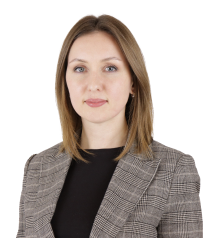
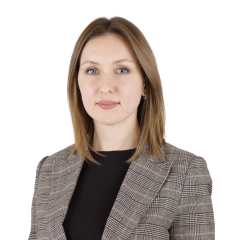
career:mobile version with plagin swiper-slider complited

diff --git a/css/style.css b/css/style.css
@@ -9,7 +9,7 @@
     --_extreme-elements-width: 20%;
     --_logo-link-width: 127px;
     position: fixed;
-    z-index: 1;
+    z-index: 10;
     display: block flex;
     justify-content: space-between;
     align-items: center;
@@ -341,6 +341,186 @@
     }
   }
 
+  .career {
+    --_slide-gap: var(--size-2);
+    --_slide-img-size: calc(100vi / 3 * 2);
+    --swiper-navigation-top-offset: calc(var(--_slide-img-size) / 2);
+    --swiper-navigation-color: var(--color-1);
+    background-color: var(--color-2);
+
+    &>p {
+      margin-block-end: var(--size-5);
+      font-weight: var(--font-weight-2);
+      font-size: 14px;
+      line-height: 143%;
+
+      & span {
+        display: block flow;
+        padding-block-start: var(--size-3);
+      }
+    }
+
+    & .swiper-slide div {
+      display: block flex;
+      flex-direction: column;
+      gap: var(--size-2);
+    }
+
+    & :where(picture, h3) {
+      align-self: center;
+    }
+
+    & h3 {
+      font-size: 16px;
+      line-height: 125%;
+      text-align: center;
+      color: var(--color-1);
+
+      & span {
+        display: block flow;
+        font-weight: var(--font-weight-1);
+        font-size: 14px;
+      }
+    }
+
+    & .swiper-slide li {
+      position: relative;
+      padding-inline-start: var(--size-4);
+      font-size: 14px;
+    }
+
+    & .swiper-slide li:not(:last-child) {
+      margin-block-end: var(--size-3);
+    }
+
+    & .swiper-slide li::before {
+      content: "";
+      position: absolute;
+      inset-inline-start: 15px;
+      inset-block-start: 6px;
+      border-radius: 50%;
+      inline-size: 5px;
+      block-size: 5px;
+      background-color: var(--color-1);
+    }
+
+    & .swiper-slide picture {
+      position: relative;
+    }
+
+    & .swiper-slide picture::before,
+    & .swiper-slide picture::after {
+      content: "";
+      position: absolute;
+      inset-block-end: 0;
+      inline-size: 100%;
+      background-position: center;
+      background-repeat: no-repeat;
+    }
+
+    & .swiper-slide picture::before {
+      block-size: 100%;
+      background-image: url('../img/career-glare.svg');
+    }
+
+    & .swiper-slide picture::after {
+      block-size: 12px;
+      background-image: url('../img/career-rect.svg');
+    }
+
+    & .swiper-slide img {
+      position: relative;
+      z-index: 1;
+      inline-size: 100%;
+      object-fit: cover;
+    }
+
+    & .swiper-button-next::after,
+    & .swiper-button-prev::after {
+      --swiper-navigation-size: 30px;
+      font-weight: var(--font-weight-2);
+    }
+
+    & .swiper-button-prev {
+      --swiper-navigation-sides-offset: -5px;
+    }
+
+    & .swiper-button-next {
+      --swiper-navigation-sides-offset: -2px;
+    }
+  }
+
+  .team {
+    --_team-indent: var(--size-3);
+    isolation: isolate;
+    position: relative;
+    display: block flex;
+    flex-direction: column;
+    justify-content: space-between;
+    padding-block: var(--size-7) var(--size-5);
+    min-block-size: 567px;
+    background-color: var(--color-3);
+
+    &::before,
+    &::after {
+      content: "";
+      position: absolute;
+      block-size: 100%;
+      inline-size: 100%;
+      background-position: center;
+      background-repeat: no-repeat;
+    }
+
+    &::before {
+      inset-block-start: 0;
+      inset-inline: 0;
+      margin-inline: auto;
+      background-image: url('../img/team-glare.svg');
+    }
+
+    &::after {
+      z-index: 1;
+      inset-inline-end: 0;
+      inset-block: 0;
+      margin-block: auto;
+      background-image: url('../img/team-img.svg');
+    }
+
+    & :where(.bold-descr, .team-window) {
+      position: relative;
+      z-index: 10;
+    }
+
+    & .bold-descr {
+      text-align: start;
+      color: var(--color-1);
+
+      & span {
+        display: block flow;
+        padding-block-start: var(--_team-indent);
+      }
+    }
+
+    & .team-window {
+      display: block flex;
+      flex-direction: column;
+      gap: var(--_team-indent);
+      border: 3px solid #36853b;
+      border-radius: 20px;
+      align-self: center;
+      padding: var(--_team-indent);
+      inline-size: clamp(313px, 40vi, 570px);
+      box-shadow: 0 4px 4px 0 rgba(0, 0, 0, 0.25), 0 0 10px 0 rgba(79, 183, 86, 0.7);
+      background: rgba(0, 0, 0, 0.8);
+
+      & p {
+        font-weight: var(--font-weight-2);
+        font-size: 18px;
+        line-height: 122%;
+      }
+    }
+  }
+
   footer {
     --_inner-indent: var(--size-6);
     --_map-height: 225px;
@@ -476,79 +656,5 @@
         font-size: 12px;
       }
     }
-  }
-
-  .team {
-    --_team-indent: var(--size-3);
-    isolation: isolate;
-    position: relative;
-    display: block flex;
-    flex-direction: column;
-    justify-content: space-between;
-    padding-block: var(--size-7) var(--size-5);
-    min-block-size: 567px;
-    background-color: var(--color-3);
-
-    &::before {
-      content: "";
-      position: absolute;
-      inset-block-start: 0;
-      inset-inline: 0;
-      margin-inline: auto;
-      block-size: 100%;
-      inline-size: 100%;
-      background-image: url('../img/glare.svg');
-      background-position: center;
-      background-size: 100%;
-      background-repeat: no-repeat;
-    }
-
-    &::after {
-      content: "";
-      position: absolute;
-      inset-inline-end: 0;
-      inset-block: 0;
-      margin-block: auto;
-      z-index: 1;
-      block-size: 100%;
-      inline-size: 100%;
-      background-image: url('../img/team-img.svg');
-      background-position: center;
-      background-repeat: no-repeat;
-    }
-
-    & :where(.bold-descr, .team-window) {
-      position: relative;
-      z-index: 10;
-    }
-
-    & .bold-descr {
-      text-align: start;
-
-      & span {
-        display: block flow;
-        padding-block-start: var(--_team-indent);
-      }
-    }
-
-    & .team-window {
-      display: block flex;
-      flex-direction: column;
-      gap: var(--_team-indent);
-      border: 3px solid #36853b;
-      border-radius: 20px;
-      align-self: center;
-      padding: var(--_team-indent);
-      inline-size: clamp(313px, 40vi, 570px);
-      box-shadow: 0 4px 4px 0 rgba(0, 0, 0, 0.25), 0 0 10px 0 rgba(79, 183, 86, 0.7);
-      background: rgba(0, 0, 0, 0.8);
-
-      & p {
-        font-weight: var(--font-weight-2);
-        font-size: 18px;
-        line-height: 122%;
-      }
-    }
-
   }
 }

diff --git a/index.html b/index.html
@@ -5,12 +5,15 @@
   <meta charset="UTF-8">
   <meta name="viewport" content="width=device-width">
   <link rel="stylesheet" href="./css/reset.css">
+  <link rel="stylesheet" href="https://cdn.jsdelivr.net/npm/swiper@11/swiper-bundle.min.css">
   <link rel="stylesheet" href="./css/font.css">
   <link rel="stylesheet" href="./css/base.css">
   <link rel="stylesheet" href="./css/default.css">
   <link rel="stylesheet" href="./css/style.css">
   <link rel="icon" href="/favicon.svg" type="image/svg+xml">
   <link rel="icon" href="/favicon.ico" type="image/svg+xml">
+  <script defer src="https://cdn.jsdelivr.net/npm/swiper@11/swiper-bundle.min.js"></script>
+  <script defer src="./js/script.js"></script>
   <title>Вакансии - Пустовский лесокомбинат</title>
 </head>
 
@@ -1127,7 +1130,78 @@
       <p>Наша Компания является ярким примером, где достойные люди смело и заслуженно поднимаются по карьерной лестнице.
         <span>Мы ценим стремление к развитию и предоставляем все необходимые для этого условия.</span>
       </p>
-      <div class="slider-3"></div>
+      <div class="swiper career-slider">
+        <ul class="swiper-wrapper">
+          <li class="swiper-slide">
+            <div>
+              <picture>
+                <source>
+                <img src="./img/career-img-1.webp" alt="Фото прораба Олега Воробьёва">
+              </picture>
+              <h3>Олег Воробьёв<span>Прораб</span></h3>
+              <ul>
+                <li>
+                  <p>В Компании с 2018 года. Начал с позиции плотника в строительной бригаде.</p>
+                </li>
+                <li>
+                  <p>В течение года работы Олег стал бригадиром и был приглашён в офис Компании на должность штатного
+                    Производителя строительных работ.</p>
+                </li>
+                <li>
+                  <p>На данный момент в Его подчинении находятся 9 строительных бригад. Олег вносит весомый вклад
+                    в итоговый результат Компании, а это реализация 100 объектов в год!</p>
+                </li>
+              </ul>
+            </div>
+          </li>
+          <li class="swiper-slide">
+            <div>
+              <picture>
+                <source>
+                <img src="./img/career-img-2.webp" alt="Фото прораба Олега Воробьёва">
+              </picture>
+              <h3>Даниил Басенков<span>Менеджер по снабжению</span></h3>
+              <ul>
+                <li>
+                  <p>В декабре 2018 года заступил на должность Менеджера отдела продаж.</p>
+                </li>
+                <li>
+                  <p>После 9 месяцев стабильных результатов, зарекомендовав себя как надёжный сотрудник, получил
+                    ответственную должность Логиста.</p>
+                </li>
+                <li>
+                  <p>Через год Даниил занял должность Специалиста службы снабжения, взяв на себя помимо закупа материала
+                    ещё и крайне важную роль Сметчика.</p>
+                </li>
+              </ul>
+            </div>
+          </li>
+          <li class="swiper-slide">
+            <div>
+              <picture>
+                <source>
+                <img src="./img/career-img-3.webp" alt="Фото прораба Олега Воробьёва">
+              </picture>
+              <h3>Мария Обухова<span>Руководитель финансовой службы</span></h3>
+              <ul>
+                <li>
+                  <p>В декабре 2018 года заступил на должность Менеджера отдела продаж.</p>
+                </li>
+                <li>
+                  <p>После 9 месяцев стабильных результатов, зарекомендовав себя как надёжный сотрудник, получил
+                    ответственную должность Логиста.</p>
+                </li>
+                <li>
+                  <p>Через год Даниил занял должность Специалиста службы снабжения, взяв на себя помимо закупа материала
+                    ещё и крайне важную роль Сметчика.</p>
+                </li>
+              </ul>
+            </div>
+          </li>
+        </ul>
+        <div class="swiper-button-prev"></div>
+        <div class="swiper-button-next"></div>
+      </div>
     </section>
     <article class="team">
       <p class="bold-descr">Наши успехи — это заслуга замечательных людей, работающих в нашей Команде.

diff --git a/js/script.js b/js/script.js
@@ -1,0 +1,21 @@
+window.addEventListener('DOMContentLoaded', () => {
+  // const slider1 = new Swiper('.slider-1', {
+
+  // });
+
+  // const slider2 = new Swiper('.slider-2', {
+
+  // });
+
+  const slider3 = new Swiper('.career-slider', {
+    navigation: {
+      nextEl: '.swiper-button-next',
+      prevEl: '.swiper-button-prev',
+    },
+
+    slidesPerView: 1,
+    spaceBetween: 10,
+    loop: true,
+
+  });
+});
